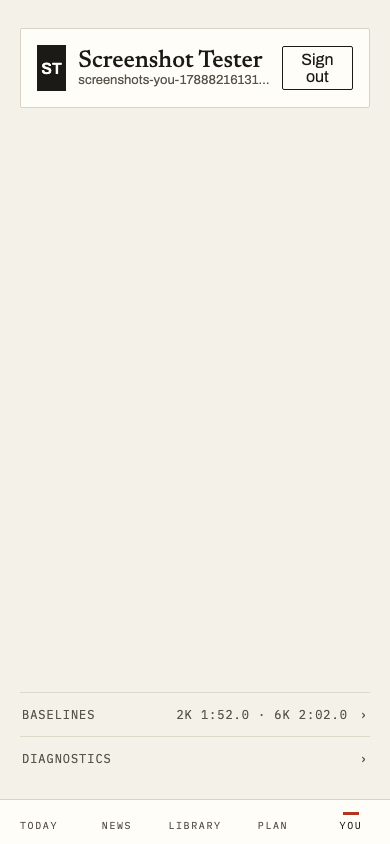
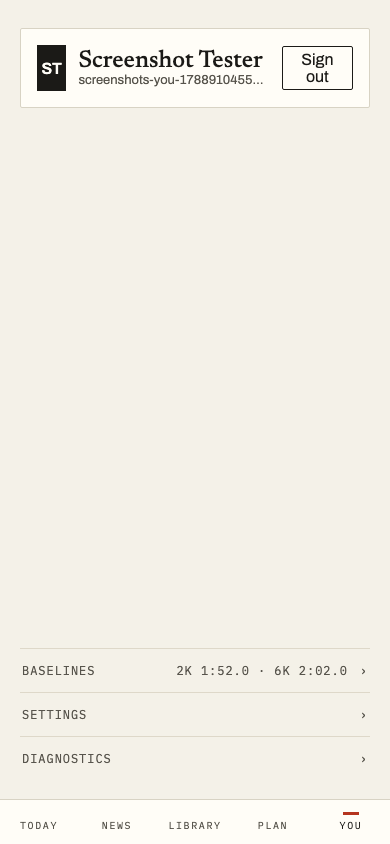
Phase JC Task 6: the doors-group gate counts four, and the screen gets captures
`design.spec.ts`'s R7 adjacency chain measured BASELINES → CONCEPT2 →
DIAGNOSTICS and went red the moment SETTINGS landed between the last two —
correctly: the chain is what pins the ORDER, so it grows a link rather than
losing one. Gate 0 ruling 3 is now gated in a browser, not only in jsdom.

Captures: `you.png` regenerates with the fourth row, and
`you-settings-colors.png` is the new screen with a NON-DEFAULT set stored
(pace swapped, SPM off) — the defaults are the one state indistinguishable
from the feature not existing. Sixty other captures the run touched are
reverted: they are date/shuffle nondeterminism, not this branch's work.

Claude-Session: https://claude.ai/code/session_016fUCCnZbTuwB5r6vkikG9J

diff --git a/app/e2e/design.spec.ts b/app/e2e/design.spec.ts
@@ -11492,7 +11492,7 @@ test.describe("the tab bar's bottom edge", () => {
   });
 });
 
-test.describe("You's doors group: BASELINES, CONCEPT2, DIAGNOSTICS", () => {
+test.describe("You's doors group: BASELINES, CONCEPT2, SETTINGS, DIAGNOSTICS", () => {
   const C2_UNLINKED = {
     available: true,
     linked: false,
@@ -11553,7 +11553,7 @@ test.describe("You's doors group: BASELINES, CONCEPT2, DIAGNOSTICS", () => {
     await assertNoA11yViolations(page);
   });
 
-  test("the three doors read as ONE group: each starts where the one above ends, in both orientations (R7)", async ({
+  test("the four doors read as ONE group: each starts where the one above ends, in both orientations (R7)", async ({
     page,
   }) => {
     // Invariant R7 (spec §5.1): exactly one auto top margin separates the
@@ -11572,23 +11572,32 @@ test.describe("You's doors group: BASELINES, CONCEPT2, DIAGNOSTICS", () => {
       const c2 = await stableBoundingBox(
         page.getByRole("link", { name: /CONCEPT2/ }),
       );
+      const settings = await stableBoundingBox(
+        page.getByRole("link", { name: "SETTINGS" }),
+      );
       const diag = await stableBoundingBox(
         page.getByRole("link", { name: /DIAGNOSTICS/ }),
       );
-      if (baselines == null || c2 == null || diag == null)
+      if (baselines == null || c2 == null || settings == null || diag == null)
         throw new Error("a door did not render");
-      // BASELINES, then CONCEPT2, then DIAGNOSTICS — the y-adjacency also
-      // pins the ORDER, which presence assertions never would. Probed
-      // (RF21) by swapping the two rows in You.tsx and REBUILDING the
-      // stack: this line fails, `Math.abs(...)` being the row height
+      // BASELINES, CONCEPT2, SETTINGS, DIAGNOSTICS — the y-adjacency also
+      // pins the ORDER, which presence assertions never would. Phase JC's
+      // Gate 0 ruling 3 (James, 2026-09-08) put SETTINGS third; this chain
+      // is what makes that a gate rather than a sentence. Probed (RF21) by
+      // swapping two rows in You.tsx and REBUILDING the stack: the
+      // corresponding line fails, `Math.abs(...)` being the row height
       // rather than 0. The rebuild is the point — the same swap against a
       // stale image passed in 929ms (RF12).
       expect(
         Math.abs(c2.y - (baselines.y + baselines.height)),
       ).toBeLessThanOrEqual(1);
-      expect(Math.abs(diag.y - (c2.y + c2.height))).toBeLessThanOrEqual(1);
+      expect(Math.abs(settings.y - (c2.y + c2.height))).toBeLessThanOrEqual(1);
+      expect(
+        Math.abs(diag.y - (settings.y + settings.height)),
+      ).toBeLessThanOrEqual(1);
       expect(baselines.height).toBeGreaterThanOrEqual(44);
       expect(c2.height).toBeGreaterThanOrEqual(44);
+      expect(settings.height).toBeGreaterThanOrEqual(44);
       expect(diag.height).toBeGreaterThanOrEqual(44);
       // R7's OTHER half: the ONE auto margin pins the group to the FOOT.
       // Measured against `.you-screen`'s own box, because a mutant that moves
